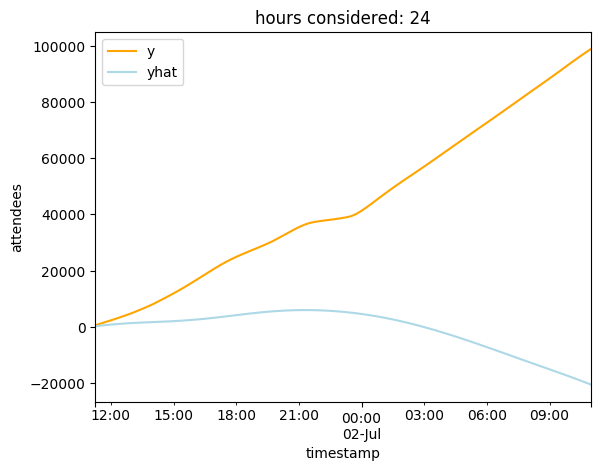
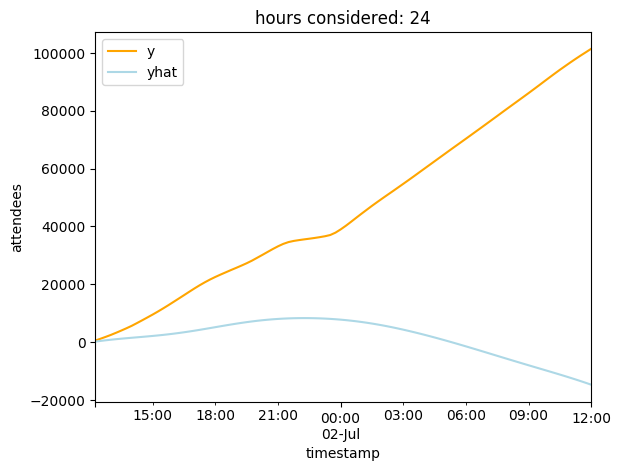
dunno

diff --git a/ts-fbprophet.py b/ts-fbprophet.py
@@ -1,4 +1,3 @@
-import datetime
 
 import dateutil
 from fbprophet import Prophet
@@ -17,10 +16,10 @@ hr_range_arr = [24, 12, 8, 4, 2, 1] # state model accuracy for these hours for R
 
 # setup data
 slices_per_hour = 4         # 15m = 4, 30m = 2, 60m = 1
-startdate = dateutil.parser.parse('2015-06-29 00:00:00')
-enddate = dateutil.parser.parse('2015-07-05 00:00:00')
+startdate = dateutil.parser.parse('2015-06-28 00:00:00') # goes from 26-06 to 05-07
+enddate = dateutil.parser.parse('2015-07-03 00:00:00')
 nrows = None
-skiprows = range(1, 150)
+skiprows = None
 datasets = ['raw15_SLICE15M_13.csv', 'raw15_SLICE15M_10.csv', 'raw15_SLICE15M_3.csv']
 basepath = 'data/'
 results = []
@@ -46,7 +45,7 @@ def forecast(data, filename):
     print('forecast made.')
     # plot
     model.plot(forecast)
-    plt.figure.savefig('img/' + 'fc_' + filename + '.png', bbox_inches='tight')
+    plt.savefig('img/' + 'fc_' + filename + '.png', bbox_inches='tight')
     plt.close()
     plt.clf()
     print('plot created.')
@@ -88,7 +87,7 @@ def evaluate_cv(df_cv, filename):
         plt.xlabel('timestamp')
         plt.ylabel('attendees')
         plt.title('hours considered: ' + str(hr_range))
-        plt.figure.savefig('img/' + 'cv_' + filename + '_' + str(hr_range) + 'h.png', bbox_inches='tight')
+        plt.savefig('img/' + 'cv_' + filename + '_' + str(hr_range) + 'h.png', bbox_inches='tight')
         plt.close()
         plt.clf()
     return results
